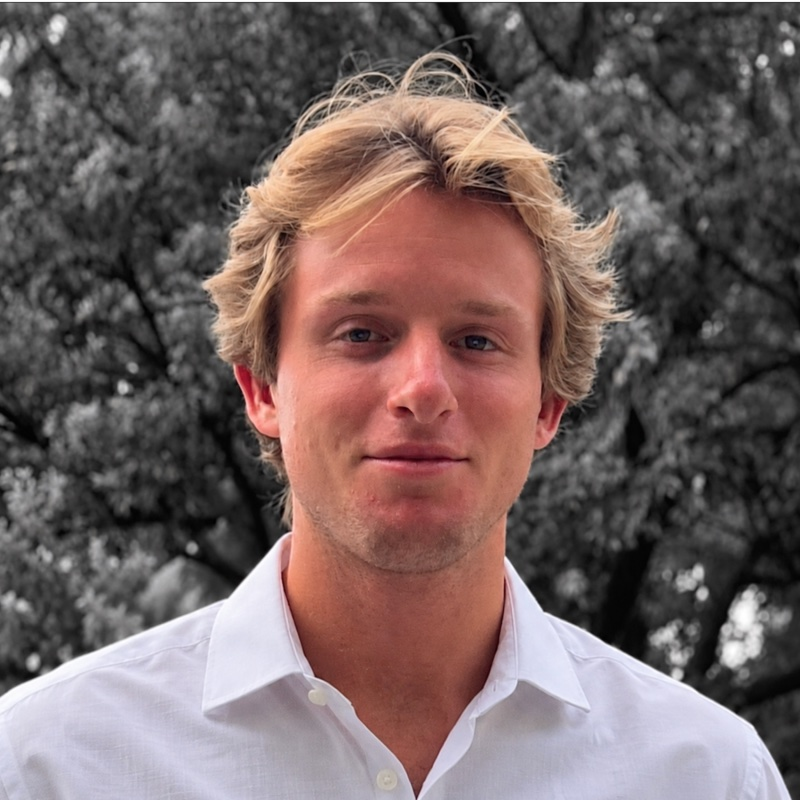
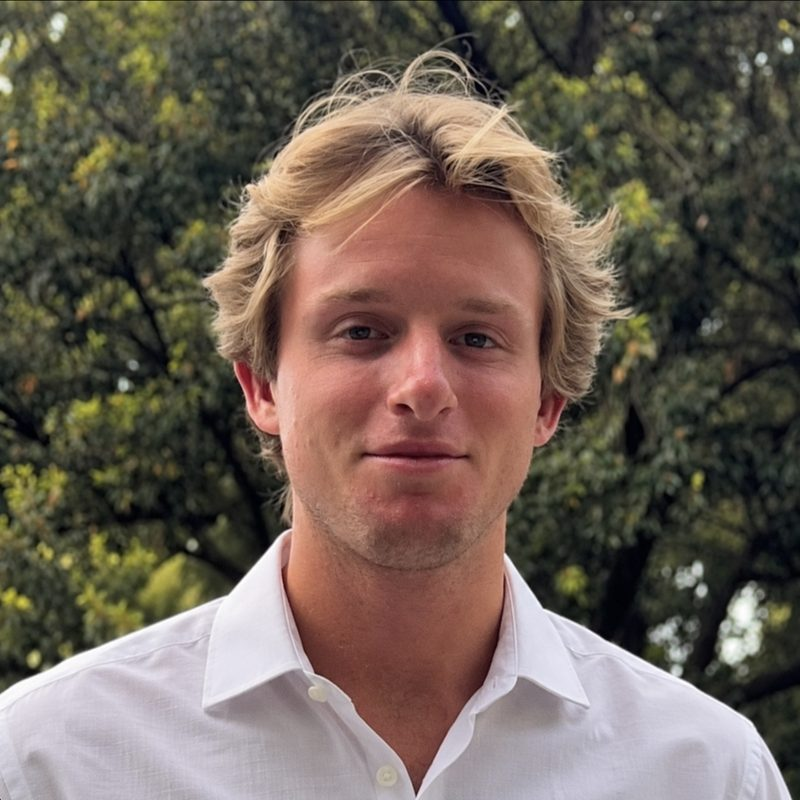
Replace home headshot with color portrait
Swap in a face-centered 800px color crop (jpg + webp, both under 150KB),
serve webp via picture with jpg fallback, and center object-position.
About page photos and prebuilt OG images are unchanged.

diff --git a/src/pages/HomePage.js b/src/pages/HomePage.js
@@ -16,14 +16,20 @@ export default function HomePage() {
     >
       <div className="page-section-inner home-inner">
         <div className="home-compose">
-          <img
-            src={`${process.env.PUBLIC_URL}/about/headshot.jpg`}
-            alt="Patrick Brown"
-            className="home-pic"
-            width="320"
-            height="320"
-            draggable={false}
-          />
+          <picture>
+            <source
+              type="image/webp"
+              srcSet={`${process.env.PUBLIC_URL}/about/headshot.webp`}
+            />
+            <img
+              src={`${process.env.PUBLIC_URL}/about/headshot.jpg`}
+              alt="Patrick Brown"
+              className="home-pic"
+              width="320"
+              height="320"
+              draggable={false}
+            />
+          </picture>
           <div className="home-copy">
             <TypewriterHeading as="h2" className="home-heading">
               Patrick Brown

diff --git a/src/App.css b/src/App.css
@@ -562,7 +562,7 @@ section {
   aspect-ratio: 1;
   height: auto;
   object-fit: cover;
-  object-position: center 20%;
+  object-position: center center;
   border: 1px solid var(--rule);
   border-radius: 2px;
   box-shadow: 0 12px 32px var(--shadow);
